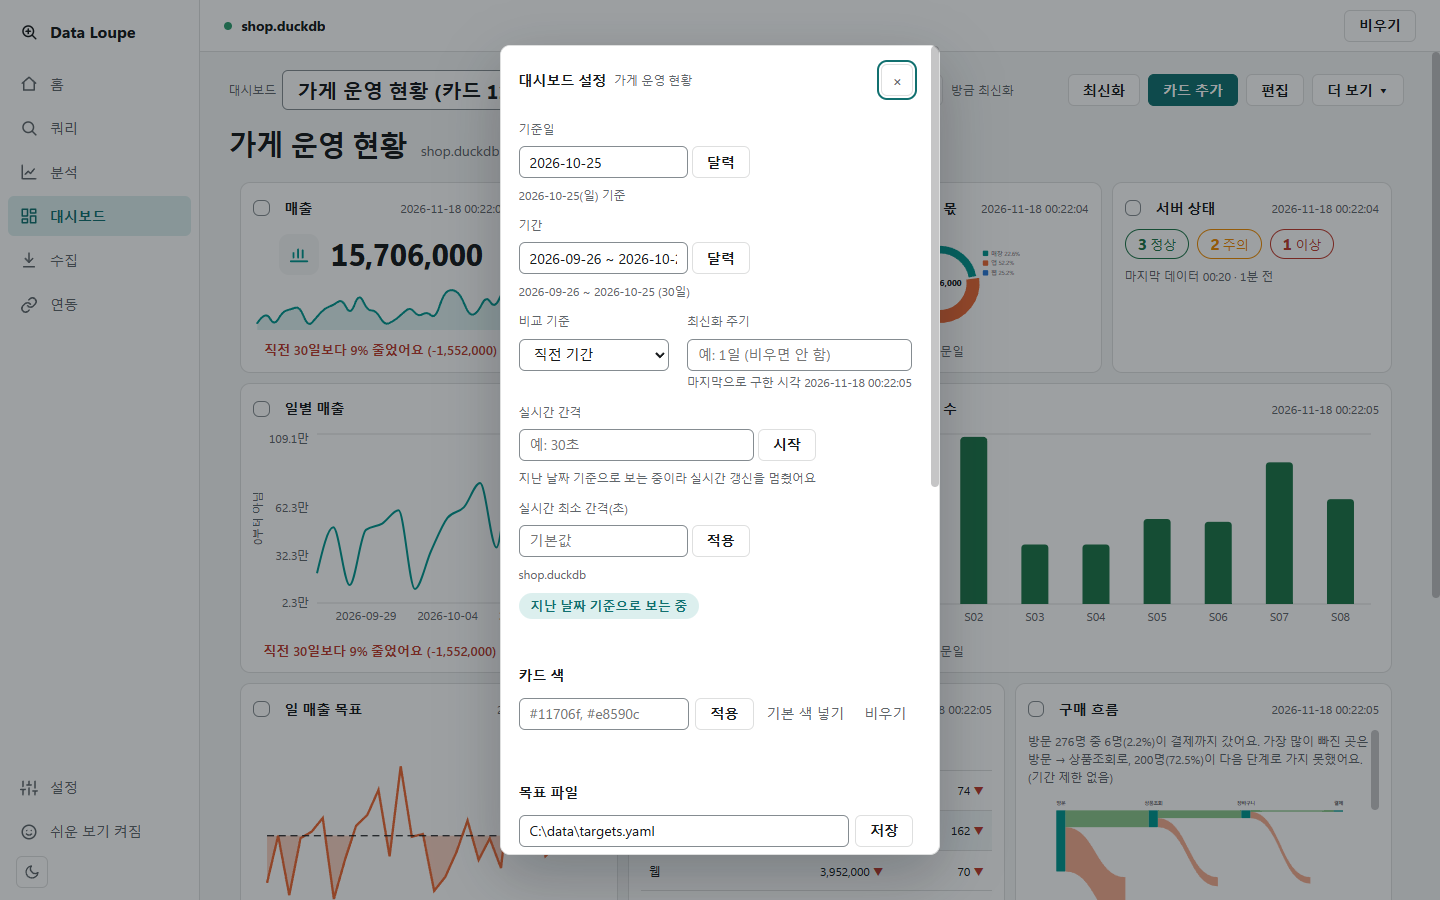
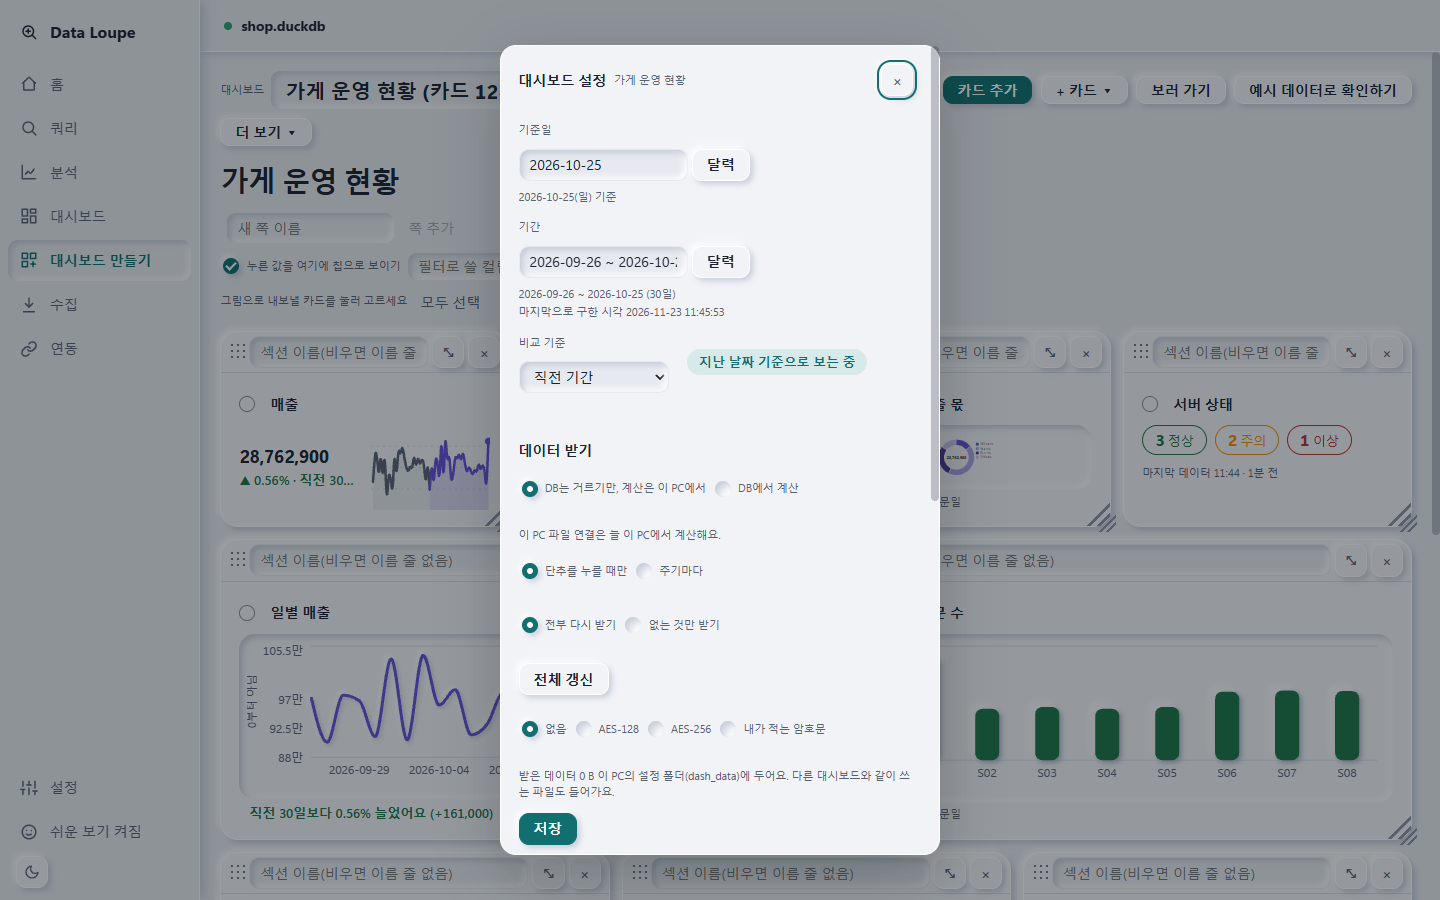
B8: 목록·상세형 템플릿(templates_more)과 대시보드 문서 그림 다시 찍기
- [더 받기]가 보는 폴더를 templates_more로 바꾸고 list_detail.json(쪽 둘) 추가
- 문서 그림 12장을 지금 화면으로 다시 찍고 그림 설명을 맞춤

diff --git a/dashboard/dash_templates.py b/dashboard/dash_templates.py
@@ -1,4 +1,4 @@
-"""(B7) [더 받기]: 사용자가 단추를 누를 때만 GitHub 저장소의 templates 폴더 목록과 고른 파일을 받는다(GitHub contents API, 주소 요청만 보낸다).
+"""(B7) [더 받기]: 사용자가 단추를 누를 때만 GitHub 저장소의 templates_more 폴더 목록과 고른 파일을 받는다(GitHub contents API, 주소 요청만 보낸다).
 받은 것은 JSON으로만 읽고(실행하지 않음) dash_store.read_template의 같은 검사를 거친다. 시험은 fetch_json을 바꿔 끼운다. 명세: plans/dash-blocks.md "B7 세부 명세"."""
 import base64
 import json
@@ -7,7 +7,7 @@ import urllib.request
 
 from core import dash_store
 
-REMOTE_LIST = "https://api.github.com/repos/jinhangcho-ops/data-loupe_Ibis-search/contents/templates"  # 저장소 templates 폴더(소유자·저장소 이름은 core/features.RELEASES와 같다)
+REMOTE_LIST = "https://api.github.com/repos/jinhangcho-ops/data-loupe_Ibis-search/contents/templates_more"  # 저장소 templates_more 폴더(소유자·저장소 이름은 core/features.RELEASES와 같다)
 HTTPS = "https://"  # 받을 수 있는 주소의 머리
 FETCH_WAIT = 15  # 서버가 답하기를 기다리는 시간(초)
 MAX_REPLY_BYTES = 1024 * 1024  # 답 하나의 크기 상한(바이트, base64로 늘어난 템플릿 파일 포함)
@@ -42,7 +42,7 @@ def fetch_json(url: str) -> object:
 
 def remote_list() -> list[dict[str, object]]:
     """[SPECIFICATION] plans/dash-blocks.md#remote_list
-    저장소 templates 폴더의 JSON 파일 목록 [{file, size}](이름 차례)을 돌려준다."""
+    저장소 templates_more 폴더의 JSON 파일 목록 [{file, size}](이름 차례)을 돌려준다."""
     got = fetch_json(REMOTE_LIST)
     if not isinstance(got, list) or not all(isinstance(item, dict) for item in got):
         raise ValueError(BAD_REPLY)
@@ -62,7 +62,7 @@ def remote_list() -> list[dict[str, object]]:
 
 def remote_get(file: str) -> dict:
     """[SPECIFICATION] plans/dash-blocks.md#remote_get
-    저장소 templates 폴더의 파일 하나를 받아 base64를 풀고 dash_store.read_template로 검사한 템플릿을 돌려준다."""
+    저장소 templates_more 폴더의 파일 하나를 받아 base64를 풀고 dash_store.read_template로 검사한 템플릿을 돌려준다."""
     if not REMOTE_NAME.fullmatch(file):
         raise ValueError(BAD_NAME)
     got = fetch_json(f"{REMOTE_LIST}/{file}")

diff --git a/tests_pytest/test_b7_templates.py b/tests_pytest/test_b7_templates.py
@@ -382,3 +382,30 @@ def test_templates_fetch_route_checks_all_before_saving(client, monkeypatch):
     assert [t["name"] for t in one.get_json()["templates"]] == ["받은 것"]
     assert client.post("/api/dash/templates/fetch", json={"files": []}).status_code == 400
     assert client.post("/api/dash/templates/fetch", json={"files": "a.json"}).status_code == 400
+
+
+# ---------- (B8) 더 받기 전용 폴더 ----------
+
+MORE_DIR = store.TEMPLATE_DIR.parent / dash_templates.REMOTE_LIST.rsplit("/", 1)[1]
+
+
+def test_more_folder_is_not_the_builtin_folder():
+    assert MORE_DIR != store.TEMPLATE_DIR and MORE_DIR.is_dir()
+
+
+def test_more_templates_pass_the_file_check_without_work_words():
+    paths = sorted(MORE_DIR.glob("*" + store.TEMPLATE_SUFFIX))
+    assert paths
+    for path in paths:
+        raw = path.read_bytes()
+        assert not any(word in raw.decode("utf-8") for word in ("신고", "조치", "기한")), path.name
+        assert store.read_template(raw, path.stem)["unknown"] == [], path.name
+
+
+def test_more_templates_make_a_dashboard_that_saves():
+    for path in sorted(MORE_DIR.glob("*" + store.TEMPLATE_SUFFIX)):
+        t = store.read_template(path.read_bytes(), path.stem)
+        cards = [{"id": f"c{i}", "kind": p["kind"], "title": p["title"], "section": p["section"], "layout": p["layout"], "colors": p["colors"], "view": p["view"], "source": {}, "data": {}}
+                 for i, p in enumerate(t["pieces"])]
+        saved = store.check_dashboard({"name": t["name"], "pages": t["pages"], "sections": t["sections"], "cards": cards})
+        assert saved["pages"] == t["pages"] and len(saved["cards"]) == len(cards), path.name

diff --git a/dashboard/dash_app.py b/dashboard/dash_app.py
@@ -681,7 +681,7 @@ def templates_import() -> Response:
 @app.post("/api/dash/templates/remote")
 def templates_remote() -> Response:
     """[SPECIFICATION] plans/dash-blocks.md#templates_remote
-    `POST /api/dash/templates/remote` [더 받기]: GitHub 저장소 templates 폴더의 파일 목록 {files}(FREE)."""
+    `POST /api/dash/templates/remote` [더 받기]: GitHub 저장소 templates_more 폴더의 파일 목록 {files}(FREE)."""
     return jsonify(files=dash_templates.remote_list())
 
 

diff --git a/docs/functions/dashboard_edit.md b/docs/functions/dashboard_edit.md
@@ -4,7 +4,7 @@
 
 ## 편집하는 곳
 
-![만드는 곳: 왼쪽 카드 모음, 가운데 카드 격자(카드마다 ⚙·×·크기 손잡이), 오른쪽 카드 설정 패널(이름·데이터·모양·중요 지표·차트 구성, 맨 아래 위치·크기)](../photo/dashboard-edit.png)
+![만드는 곳: 왼쪽 카드 모음, 가운데 섹션과 카드(섹션마다 ⤡·×·크기 손잡이, 고른 카드에 ⤢·⚙), 오른쪽 카드 설정 패널(이름·데이터·모양)](../photo/dashboard-edit.png)
 
 - 왼쪽 메뉴의 **[대시보드 만들기]**(또는 보는 곳의 **[만들기]**)로 들어옵니다. 여기서는 늘 편집 상태라 카드 제목 줄 끌기, ⚙·×, 크기 손잡이가 있습니다. 다 고치면 **[보러 가기]**로 보는 곳에서 엽니다(저장은 저절로 됩니다). 보는 곳([대시보드])에는 이런 도구가 없습니다. 카드를 누르면 선택되고(여러 개 고를 수 있음), 고른 카드는 그림·CSV로 저장할 대상이 됩니다.
 - **[+ 카드 ▾]** → **카드 모음**을 누르면 왼쪽에 카드 틀 목록이 열립니다. 묶음은 차트(종류마다 한 칸, 31종) · 값·목표 · 표·글 · 모니터링 · 분포·구성 · 변화·비교 · 흐름 · 지도입니다. 틀을 격자에 **끌어 놓거나 두 번 누르면** 빈 카드가 생기고 "아직 데이터가 없어요. 제목 옆 ⚙를 눌러 테이블과 컬럼을 고르세요."가 보입니다. 목록은 머리글의 ×로 닫습니다.
@@ -28,7 +28,7 @@
 - 너비·높이 모두 **2~12칸**입니다. 오른쪽 끝을 넘으면 카드를 왼쪽으로 당겨 맞춥니다.
 - 커진 카드와 겹치는 카드는 **아래로 밀리고**, 작아져 생긴 **빈 곳은 위로** 메워집니다.
 
-![설정 패널의 너비 3·높이 3·가로 위치 3·세로 위치 0으로 '주문 수' 카드를 3×3으로 바꾼 모습](../photo/dashboard-card-size-panel.png)
+![설정 패널 맨 아래 [위치·크기]: '주문 수' 카드의 섹션을 너비 3·높이 3·가로 위치 3·세로 위치 0으로 바꾼 모습](../photo/dashboard-card-size-panel.png)
 
 - 숫자로 정할 수도 있습니다. 설정 패널 맨 아래 **위치·크기**(처음에는 접혀 있음)를 펼쳐 **너비(칸)**·**높이(칸)**(크기)와 **가로 위치**·**세로 위치**(자리, 왼쪽 위가 0)에 숫자를 넣습니다.
 - 범위 밖 숫자(예: 너비 13칸)는 이유를 보이고 받지 않습니다. 겹침·빈 곳은 손잡이로 끌 때와 같은 규칙입니다.
@@ -84,7 +84,8 @@
 
 - **내 템플릿**: 대시보드 설정 창의 **내 템플릿**에서 템플릿 이름을 적고 **[내 템플릿으로 저장]**을 누르면 지금 대시보드의 쪽·섹션과 카드·요소의 종류·자리·이름·색, 그리고 모양 설정(표시 형식·소수 자릿수·차트 종류·계열 모양·세로축 범위·적어 둔 글 등)을 저장합니다(컬럼·테이블·값·연결·조건은 저장하지 않음. 카드나 요소가 하나 이상 있어야 함). 새 대시보드를 만들 때 시작 모양 목록에 `이름 (내 템플릿)`으로 나옵니다. 저장한 템플릿은 그 아래 목록의 **[지우기]**로 지웁니다.
 - **파일로 주고받기**: 목록의 **[파일로 내보내기]**는 내 템플릿 하나를 JSON 파일로 저장하고, **[파일에서 가져오기]**는 템플릿 파일을 검사한 뒤 내 템플릿에 넣습니다. 색 설정에 붙인 계열·조각 이름과 적어 둔 글은 파일에 그대로 들어가니, 남에게 줄 때는 확인하세요.
-- **[더 받기]**: 누를 때만 GitHub 저장소의 `templates` 폴더 목록을 받아 보여 줍니다(주소 요청만 보내고 데이터·설정은 보내지 않음). 받을 것을 체크하고 **[고른 것 받기]**를 누르면 검사한 뒤 내 템플릿에 넣습니다.
+- **[더 받기]**: 누를 때만 GitHub 저장소의 `templates_more` 폴더 목록을 받아 보여 줍니다(주소 요청만 보내고 데이터·설정은 보내지 않음). 받을 것을 체크하고 **[고른 것 받기]**를 누르면 검사한 뒤 내 템플릿에 넣습니다.
+  - 지금 받을 수 있는 것: **목록·상세형**(쪽 둘. 쪽 1은 핵심 지표 넷, 가로 막대, 도넛. 쪽 2는 숫자 타일 줄, 목록, 상세. 위쪽 화면 줄과 화면 이동 줄이 쪽마다 놓입니다). 받은 뒤 카드마다 데이터를 정하고, 카드끼리의 링크는 직접 잇습니다.
 - 이 앱보다 새 형식의 템플릿 파일은 넣지 않고 업데이트를 안내합니다. 이 앱이 모르는 종류의 요소가 든 템플릿은 목록에 **이 버전에서 못 여는 요소**로 표시하고, 대시보드를 만들 때 그 요소만 빼고 만듭니다.
 
 ## 그림·보고서 저장

diff --git a/docs/functions/dashboard_basics.md b/docs/functions/dashboard_basics.md
@@ -35,7 +35,7 @@
 
 ## 기준일·기간·비교 기준
 
-![대시보드 설정 창: 기준일·기간·비교 기준·데이터 받기·카드 색·목표 파일·통화 기호](../photo/dashboard-settings.png)
+![대시보드 설정 창: 기준일·기간·비교 기준·데이터 받기(계산하는 곳·받는 때·암호화)](../photo/dashboard-settings.png)
 
 **[더 보기 ▾]** → **대시보드 설정**을 누르면 **대시보드 설정** 창이 뜹니다(편집을 켜지 않아도 됩니다). [대시보드만 보기]의 **[대시보드 설정]**과 틀 요소 단추의 할 일 "대시보드 설정 창 열기"로도 열며, 보는 곳에서는 기간 칸(저장하지 않음)과 데이터 받기만 보입니다. 도구 줄의 **기간** 칸은 이 창의 기간 칸과 같은 것이어서 어느 쪽에서 바꿔도 됩니다. 위에서부터 기준일·기간·비교 기준, **데이터 받기**(계산 방식(만드는 곳에서만)·갱신 주기·받는 범위·[전체 갱신]·암호화·받은 데이터, [아래](#최신화와-갱신-주기)), **카드 색**, **목표 파일**, **통화 기호**, **차트 낱말**, **내 템플릿**, **이름 바꾸기와 지우기**가 있습니다. 위쪽 칸들이 "언제를 볼지"를 정합니다. 칸은 값을 쓰고 Enter를 치거나 다른 곳을 누르면 반영됩니다.
 
@@ -137,7 +137,7 @@
 
 ## 대시보드만 보기
 
-![대시보드만 보기: 메뉴·도구와 카드의 선택·설정 단추 없이 대시보드 이름과 카드, 오른쪽 위 [보기 끝내기]만](../photo/dashboard-only.png)
+![대시보드만 보기: 왼쪽 메뉴 없이 대시보드 이름, [최신화]·[대시보드 설정]·[보기 끝내기]와 카드만](../photo/dashboard-only.png)
 
 보는 곳 도구 줄의 **[대시보드만 보기]**를 누르면 왼쪽 메뉴, 패널, 카드의 체크·설정·닫기 단추와 크기 손잡이가 모두 사라지고 위쪽 줄 하나와 카드만 남습니다. 회의 화면에 띄워 두거나 모니터 한쪽에 켜 둘 때 씁니다.
 

diff --git a/docs/functions/dashboard_cards.md b/docs/functions/dashboard_cards.md
@@ -4,7 +4,7 @@
 
 ## 카드 추가
 
-![[카드 추가] 메뉴: 테이블·카드 종류(KPI)·이름·값(금액 합계)·표시 형식·지표·날짜 컬럼·목표](../photo/dashboard-add-menu.png)
+![[카드 추가] 창: 찾는 칸, 테이블, 카드 종류 묶음(차트·값·목표·표·글 등)과 종류별 미리 보기](../photo/dashboard-add-menu.png)
 
 - 도구 줄의 **[카드 추가]**(또는 편집 중에 **[+ 카드 ▾]** → **카드 추가**)를 누르면 오른쪽 서랍이 열립니다. 위에서부터 **테이블**, **카드 종류**, **값**(이름·컬럼·집계)을 고릅니다. 카드 이름과 목표 파일은 맨 아래 **더 많은 설정**을 펼치면 있습니다.
 - **표시 형식**(숫자 · % (0~1 값) · 금액. 금액에는 [대시보드 설정의 통화 기호](dashboard_basics.md#통화-기호와-그-밖의-설정)가 앞에 붙음), **지표**(내 지표를 값으로 쓸 때), **날짜 컬럼**(기간을 걸 컬럼. 날짜 컬럼이 하나뿐이면 자동으로 고름), **목표**(숫자 또는 목표 파일의 이름)를 정하고 **[카드 추가]**를 누릅니다. KPI·도넛 KPI·칸 채우기 카드에는 **단위** 칸(예: 명, 회, 원)이 있어 값 뒤에 붙일 글자를 적습니다. 지표 파일의 지표를 값으로 쓰는 KPI는 표시 형식을 따로 고르지 않으면 지표 파일의 형식을 따릅니다. 표시 형식 옆의 **소수 자릿수**(0~6, 비우면 숫자·%는 2자리까지·금액은 0자리)와 **끝자리 0 채우기**(켜면 자릿수 2에서 12.5가 12.50)로 값을 몇 자리까지 보일지 정합니다. 문장 카드와 목록 카드의 줄 부분에도 같은 칸이 있고, 카드를 만든 뒤에는 카드 설정에서 바꿉니다.
